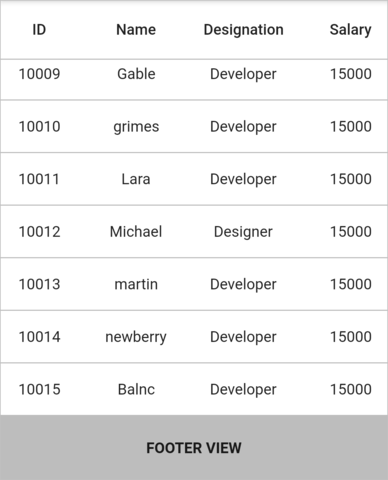
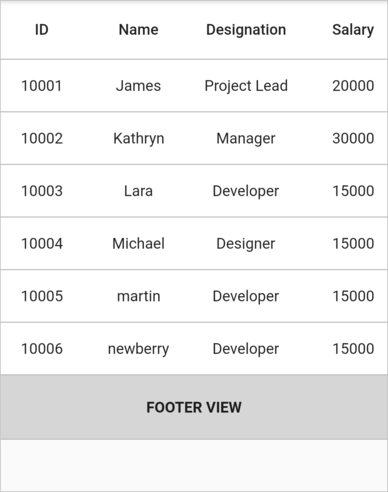
FLUT-4845-[feature][flutter]: Modified the review corrections.

diff --git a/Flutter/datagrid/footer-view.md b/Flutter/datagrid/footer-view.md
@@ -9,7 +9,7 @@ documentation: ug
 
 # Footer view in Flutter DataGrid
 
-The `SfDataGrid` provides support to load additional row to the datagrid rows collection. It is called footer view. The footer view can be displayed below to the last data row and it has a single cell that is filled to the parent width of `SfDataGrid`. You can allow the footer view by setting any type of widget to the `SfDataGrid.footer` property. The default value of the footer is `null`.
+Creates an additional row that can be displayed below to the last row. Widgets can be displayed to the additional row by setting the `SfDataGrid.footer` property.
 
 {% tabs %}
 {% highlight Dart %} 
@@ -68,7 +68,7 @@ Widget build(BuildContext context) {
 
 ## Change the footer row height
 
-The footer view height can be customized by using the `SfDataGrid.footerHeight` property. The default value of the footer view height is 49.0.
+An additional row height can be personalized by using the `SfDataGrid.footerHeight` property. The default value of the additional row is 49.0.
 
 {% tabs %}
 {% highlight Dart %} 
@@ -128,7 +128,7 @@ Widget build(BuildContext context) {
 
 ## Show footer row always
 
-The footer can be displayed at bottom of the last data row. If you want to show the footer view always on the view bottom, you can simply set the `SfDataGrid.frozenFooterRowsCount` property to 1. 
+By default, the additional row can be displayed below to the last row. If you want to show the additional row always on the view bottom, you can simply set the `SfDataGrid.frozenFooterRowsCount` property to 1.
 
 {% tabs %}
 {% highlight Dart %} 
@@ -139,7 +139,6 @@ Widget build(BuildContext context) {
     source: _employeeDataSource,
     footerFrozenRowsCount: 1,
     footer: Container(
-      color: Colors.grey[400],
       child: Center(
         child: Text(
           'FOOTER VIEW',
@@ -184,4 +183,4 @@ Widget build(BuildContext context) {
 {% endhighlight %}
 {% endtabs %}
 
-![flutter datagrid shows footer view always on bottom](images/footer-view/flutter-datagrid-footer-view-on-bottom.png)
+![flutter datagrid shows footer view always on bottom](images/footer-view/flutter-datagrid-footer-view-on-bottom.gif)
